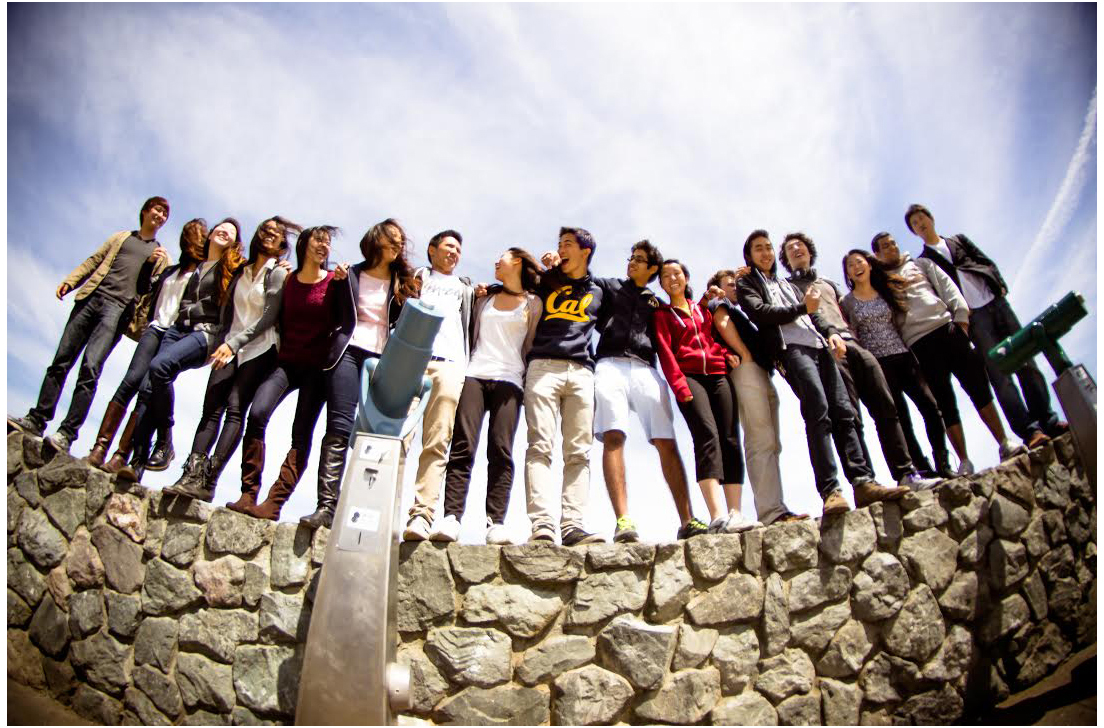
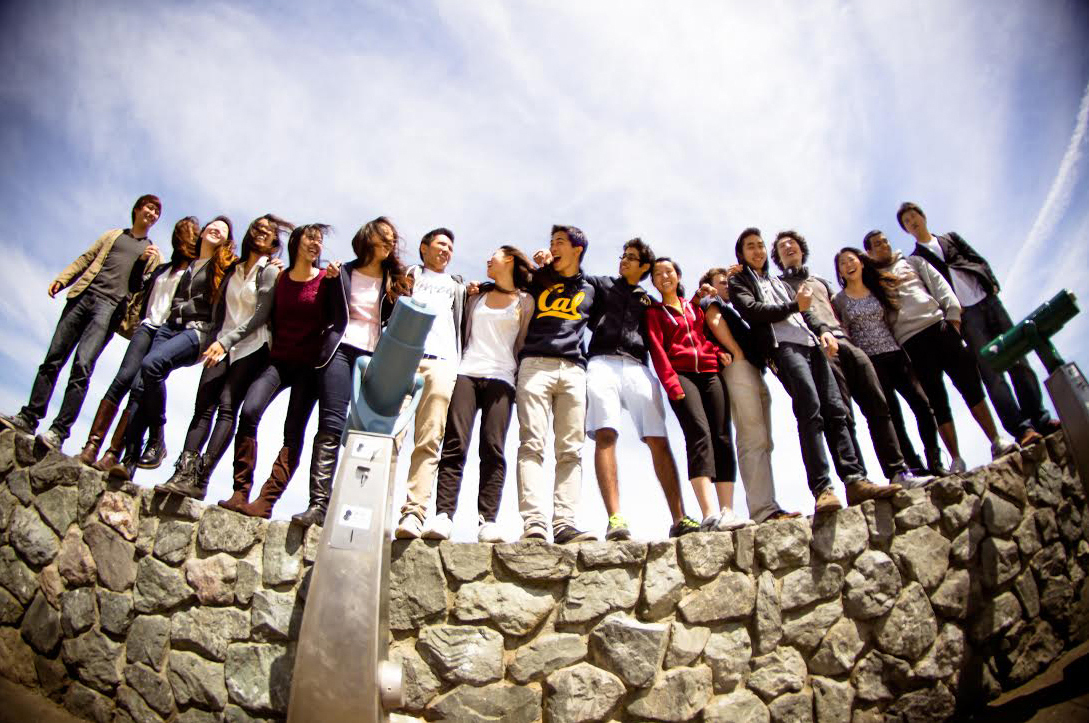
Change background post-rush

diff --git a/app/assets/stylesheets/carousel_base.css b/app/assets/stylesheets/carousel_base.css
@@ -162,7 +162,7 @@
 /* Content elements */
 
 .demo-2 .bg-img-1 {
-	background-image: url('Rush_Flyer_F2014.jpg');
+	background-image: url('grouppic2.jpg');
 	padding: 0px;
 	margin-left: 200px;
 	margin-top: 200px;
